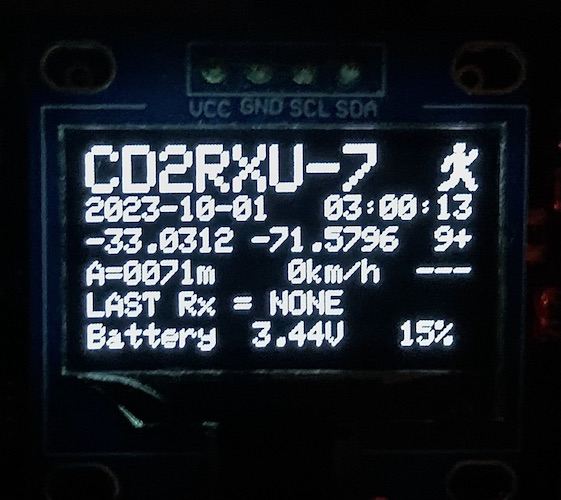
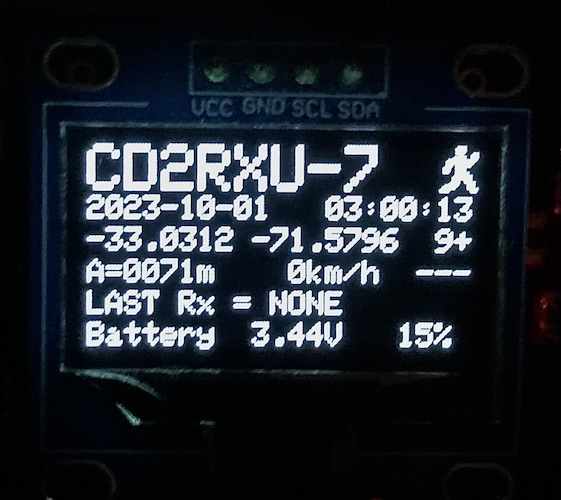
update1

diff --git a/README.md b/README.md
@@ -2,9 +2,7 @@
 
 This firmware is for using ESP32 based boards with LoRa Modules and GPS to live in the APRS world.
 
-
-[!Alt text](https://github.com/richonguzman/LoRa_APRS_Tracker/blob/main/images/OledScreen.jpeg?raw=true "OledScreen")
-
+![Screenshot](https://github.com/richonguzman/LoRa_APRS_Tracker/blob/main/images/OledScreen.jpeg)
 
 (NOTE: To use Tx/Rx capabilities of this tracker you should have also an Tx/Rx <a href="https://github.com/richonguzman/LoRa_APRS_iGate" target="_blank">LoRa iGate</a> near you)
 